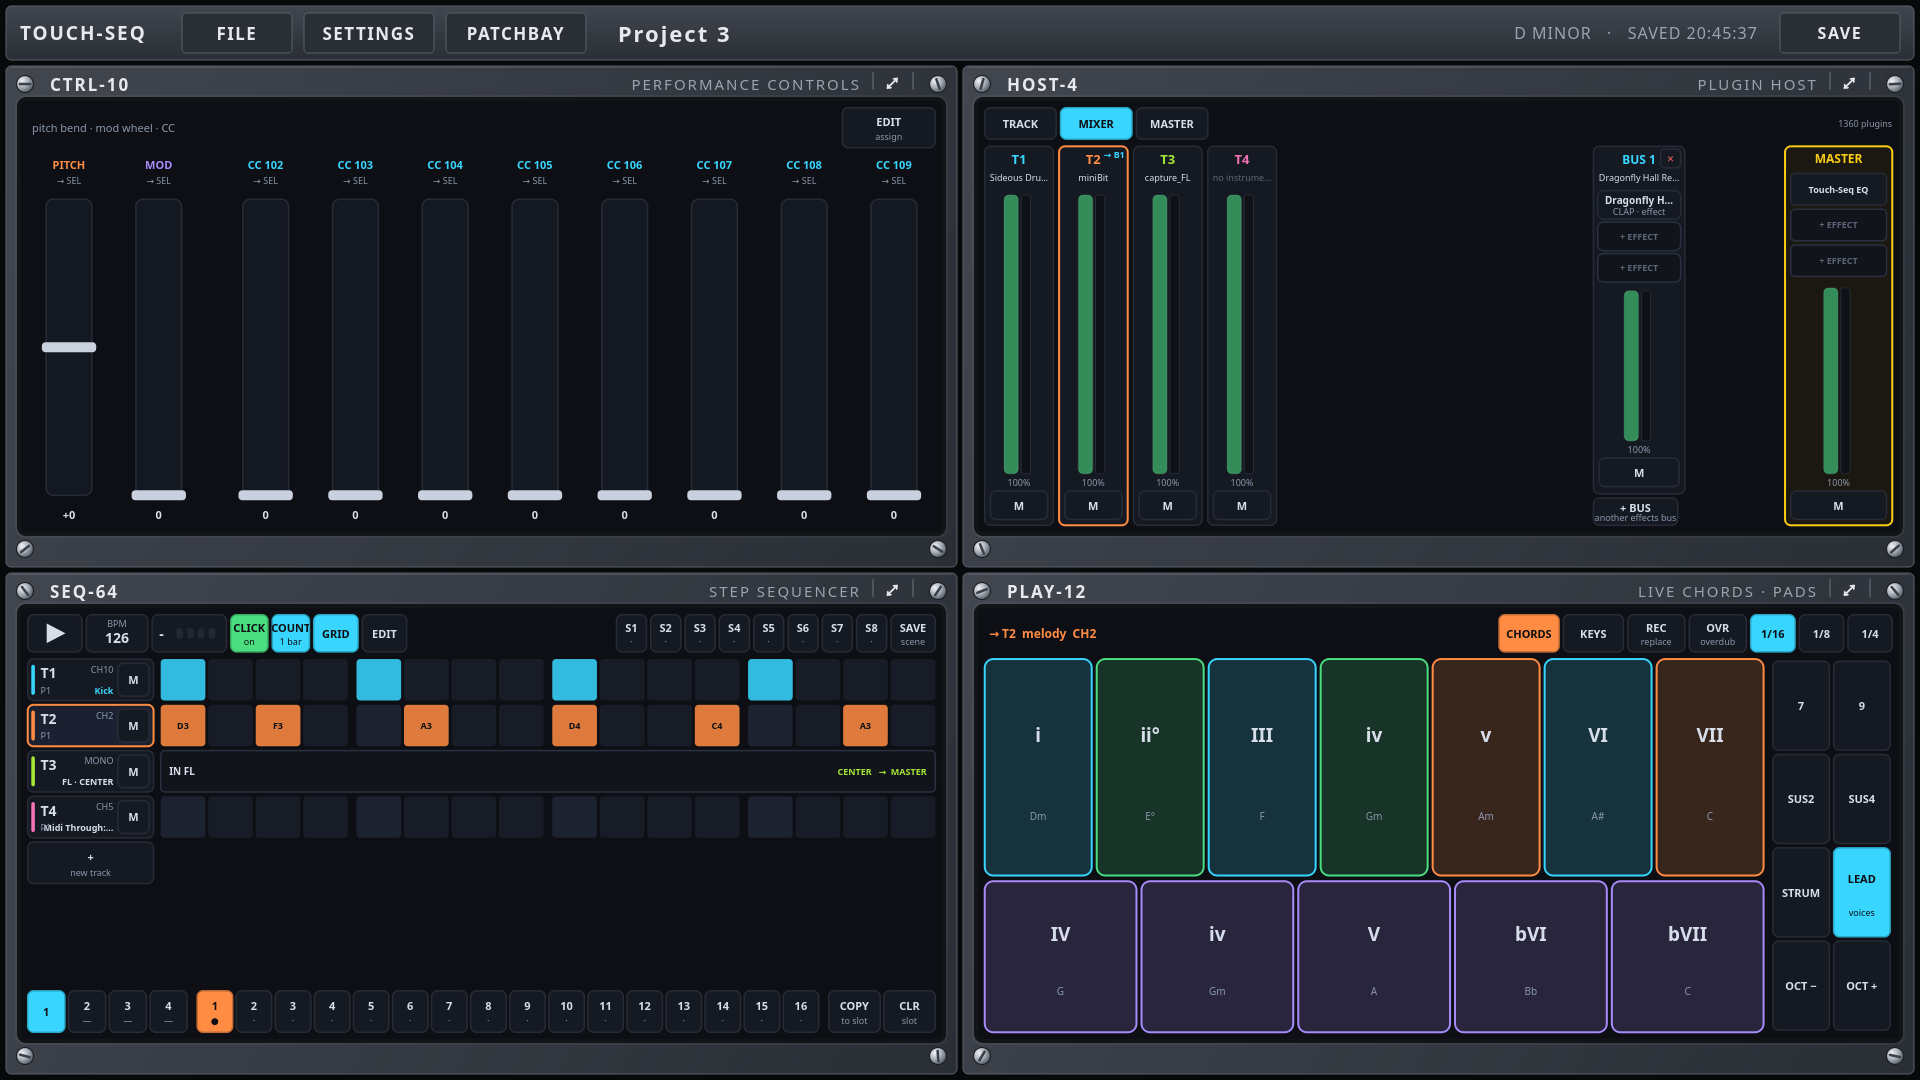
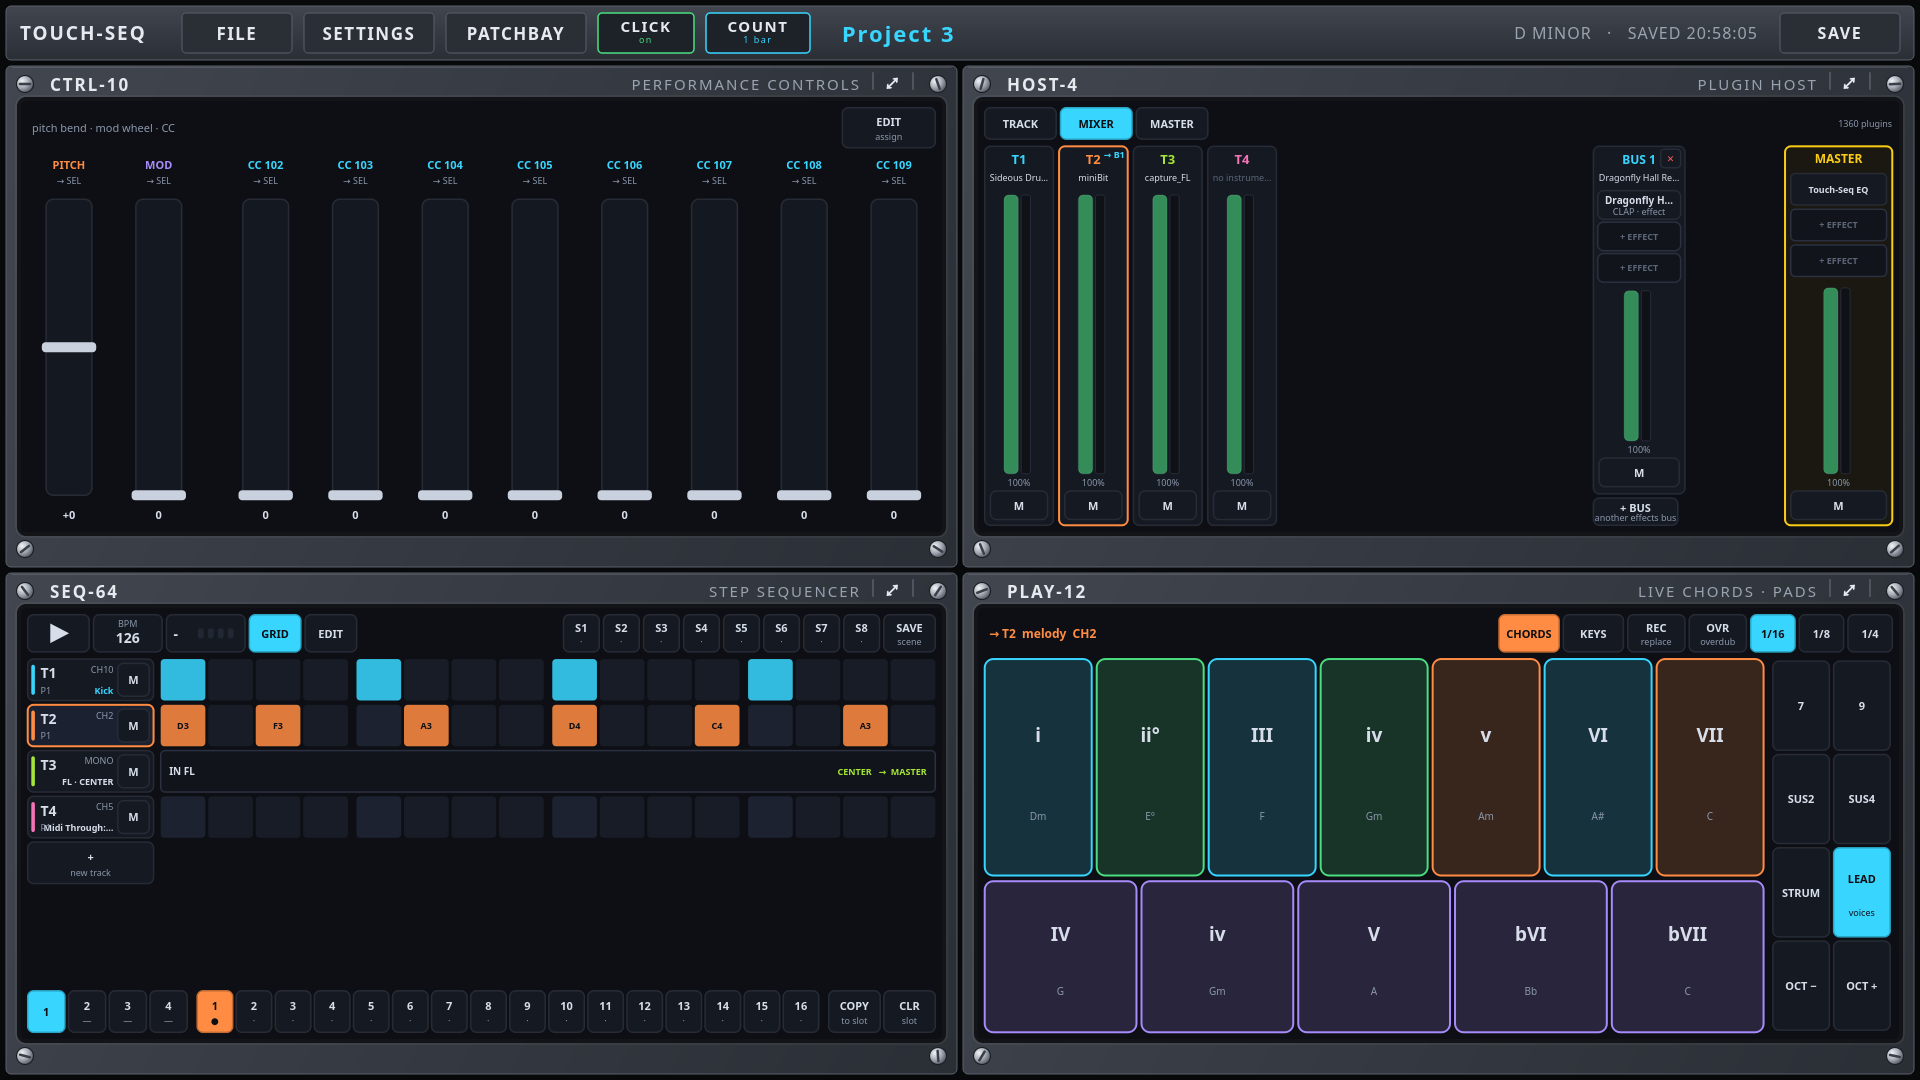
midi in: a held note keeps its length, the keyboard's clock sets the tempo, CLICK/COUNT move up
A note held over the end of the pattern came back as 1/16 (or a quarter) because the length was measured on
the track's own position, which wraps with the pattern: (end - start) % length. The engine now has a position
of its own that never wraps (`beats`), and record_end measures the hold on that, so a chord held for a bar is
a bar long (up to MAX_GATE) - fingers on the pads win from it too.

The keyboard's clock is followed as well: 24 pulses per beat, each stamped when it arrives (rtmidi's thread,
not the UI clock), the pulse length smoothed and the tempo decided once a beat, so pressing play on the
KeyStep plays the sequencer at its bpm instead of the project's.

The metronome and the count-in left the sequencer's transport row for the top bar, next to FILE / SETTINGS /
PATCHBAY, where they belong: they are the whole rack's, not one track's. The sequencer keeps its row as it was.

Test: a note held for ~20 steps at length 16 comes out as a whole bar (it used to come out as 4 steps);
an external clock at 128 bpm sets the project's tempo, a gap in the clock is not taken as a tempo, a new
tempo is followed, and the same through a MIDI input's 0xF8 messages.

Changed region(s): [[0.3125, 0.0, 0.4375, 0.0611], [0.0938, 0.55, 0.2188, 0.6111], [0.4375, 0.0306, 0.4688, 0.0611]]

diff --git a/tseq/performer.py b/tseq/performer.py
@@ -1,11 +1,13 @@
 """The live-play module: chord pads, the keyboard and the XY pad, with the chord/XY gestures that belong to
 them."""
 import math
+import time
 
 from PySide6.QtCore import QPointF, QRectF, Qt, QTimer
 from PySide6.QtGui import QColor, QLinearGradient, QPen
 
-from .constants import BG, BORDER, DIM, DRUM_COLORS, DRUM_KIT, GATE_RES, MAX_GATE, PANEL, TEXT, WARN
+from .constants import (BG, BORDER, BPM_MAX, BPM_MIN, DIM, DRUM_COLORS, DRUM_KIT, GATE_RES, MAX_GATE, PANEL,
+                        TEXT, WARN)
 from .gestures import Gesture
 from .midiin import Inputs
 from .music import (BORROWED, CHORD_SCALE, SCALES, XYFX_MODES, chord_name, note_name, roman, stack, xyfx_filter,
@@ -173,6 +175,9 @@ class Performer(Panel):
         self.midi_in = {}  # Track -> {note: count} the MIDI keyboards are holding (for lighting)
         self.midi_keys = {}  # (port, channel, note) -> [InNote]: what is sounding, to release on note-off
         self.arm_key = None  # (selected track, mode) the current recording was armed with
+        self.pulse_at = None  # when the last external clock pulse came in
+        self.pulse_len = None  # its smoothed length (s)
+        self.pulses = 0  # pulses since the last tempo decision
 
     # --- sound + recording -----------------------------------------------------
     def on(self, tr, note, vel):
@@ -193,8 +198,8 @@ class Performer(Panel):
     def tick(self):
         super().tick()
         self.inputs.use(tr.in_port for tr in self.project.tracks if not tr.audio)
-        for port, msg in self.inputs.poll():
-            self.external(port, msg)
+        for port, msg, when in self.inputs.poll():
+            self.external(port, msg, when)
         self.arm()
 
     def arm(self):
@@ -248,11 +253,34 @@ class Performer(Panel):
         elif self.engine.playing or self.engine.counting:
             self.engine.stop()
 
-    def external(self, port, msg):
+    CLOCK = 24  # MIDI clock pulses per beat
+
+    def clock(self, when):
+        """Follow an external clock, so a keyboard's own tempo plays the sequencer. The pulse length is
+        smoothed and the tempo only moves once a beat, so a few late pulses don't make it wobble."""
+        last, self.pulse_at = self.pulse_at, when
+        if last is None:
+            return
+        gap = when - last
+        if not 0.002 < gap < 0.25:  # the clock stopped (or was replugged): start measuring again
+            self.pulse_len = None
+            return
+        self.pulse_len = gap if self.pulse_len is None else self.pulse_len * 0.85 + gap * 0.15
+        self.pulses += 1
+        if self.pulses % self.CLOCK:  # decide once a beat, not on every pulse
+            return
+        bpm = round(60.0 / (self.pulse_len * self.CLOCK))
+        if bpm != self.project.bpm and BPM_MIN <= bpm <= BPM_MAX:
+            self.project.bpm = bpm
+
+    def external(self, port, msg, when=None):
         """A message from a MIDI input: every track listening to it plays the note (a keyboard's chords can
         go to more than one track) and records it when armed. Bend, mod wheel and the rest go to the
         instrument, so a keyboard's controller works the track like its own UI would."""
         status = msg[0]
+        if status == 0xF8:  # the clock: its tempo is the project's
+            self.clock(when if when is not None else time.perf_counter())
+            return
         if status in (0xFA, 0xFB, 0xFC) or (status == 0xB0 and len(msg) > 2 and msg[1] in (115, 116)):
             self.transport(msg)  # the keyboard's own play/stop
             return
@@ -290,12 +318,12 @@ class Performer(Panel):
             e.rec_taken.add((k, i))
             if ahead:
                 e.rec_fresh.add((k, i))
-        return pat, i, pos, lanes
+        return pat, i, e.beats(), lanes
 
     def record_end(self, tr, take):
         pat, i, start, lanes = take
-        pos = self.engine.position(tr)
-        held = (pos - start) % pat.length if pos is not None else 1.0
+        pos = self.engine.beats()  # not the track's own position: that wraps with the pattern
+        held = pos - start if pos is not None and start is not None else 1.0
         gate = max(GATE_RES, min(MAX_GATE, round(held / GATE_RES) * GATE_RES))
         for k in lanes:
             lane = pat.lane(k)

diff --git a/tests/test_app.py b/tests/test_app.py
@@ -1303,7 +1303,7 @@ class FakeInputs:
 
     def poll(self):
         got, self.msgs = self.msgs, []
-        return got
+        return [(port, msg, time.perf_counter()) for port, msg in got]
 
     def open_names(self):
         return self.open
@@ -1385,7 +1385,9 @@ ins = ts.Inputs(in_opener, lambda: ["Arturia KeyStep MIDI 1", "Novation Launchpa
 ins.use(["keystep"])
 assert list(made) == ["Arturia KeyStep MIDI 1"], made
 made["Arturia KeyStep MIDI 1"].cb(([0x90, 60, 100], 0.0))
-assert ins.poll() == [("Arturia KeyStep MIDI 1", [0x90, 60, 100])] and ins.poll() == []
+got = ins.poll()
+assert [(name, msg) for name, msg, when in got] == [("Arturia KeyStep MIDI 1", [0x90, 60, 100])], got
+assert ins.poll() == []
 assert ins.open_names() == ["Arturia KeyStep MIDI 1"]
 ins.use([])
 assert made["Arturia KeyStep MIDI 1"].closed and ins.open_names() == []
@@ -1529,3 +1531,47 @@ text = _f.read_text()
 assert "click" not in text and "count_in" not in text, "off is not stored"
 assert ts.load_project(_f).click is False and ts.load_project(_f).count_in == 0
 print("click settings OK")
+
+# --- a note held past the end of the pattern keeps its length (it used to wrap: 1/16 or a quarter) ---
+prh = ts.Project(bpm=600, tracks=[ts.Track("melody", 1, 1)])  # 600 bpm: a step is 25 ms, a bar 0.4 s
+orh = FakeOut(); ehh = ts.Engine(prh, orh); shh = ts.Sequencer(prh, ehh)
+phh = ts.Performer(prh, ehh, shh)
+shh.sel = prh.tracks[0]
+phh.mode = "rec"; ehh.start(); phh.tick()
+time.sleep(0.6)
+take = phh.record_start(prh.tracks[0], [60], 100)
+assert take, "armed and playing: the take starts"
+time.sleep(0.5)  # ~20 steps: over the bar line, where the old code wrapped to 4 steps
+phh.record_end(prh.tracks[0], take)
+step = prh.tracks[0].current.lanes[60][take[1]]
+print("held over the bar line:", round(step.gate, 3), "steps")
+assert step.gate == ts.MAX_GATE, step.gate  # a whole bar, not the remainder of the wrap
+ehh.stop(); phh.mode = None; phh.tick()
+print("long hold OK")
+
+# --- an external clock sets the tempo (the keyboard is the master) ---
+prb = ts.Project(bpm=100, tracks=[ts.Track("melody", 1, 1)])
+ebb = ts.Engine(prb, FakeOut()); shb = ts.Sequencer(prb, ebb); phb = ts.Performer(prb, ebb, shb)
+phb.inputs = FakeInputs()
+t = 1000.0
+for _ in range(48 * 2):  # two beats of clock at 128 bpm
+    phb.clock(t)
+    t += 60.0 / 128 / 24
+assert prb.bpm == 128, prb.bpm
+print("clock tempo:", prb.bpm)
+phb.clock(t + 1.0)  # the clock stopped for a second: measure again, don't jump
+assert prb.bpm == 128, prb.bpm
+t += 1.0
+for _ in range(24 * 3):  # and a new tempo is followed
+    phb.clock(t)
+    t += 60.0 / 90 / 24
+assert prb.bpm == 90, prb.bpm
+# the same through a MIDI input, which is how it actually arrives
+prb.bpm = 100
+phb.pulse_at, phb.pulse_len, phb.pulses = None, None, 0
+tt = 2000.0
+for _ in range(48 * 2):
+    phb.external("Arturia KeyStep MIDI 1", [0xF8], tt)
+    tt += 60.0 / 140 / 24
+assert prb.bpm == 140, prb.bpm
+print("clock from MIDI OK")

diff --git a/tseq/rack.py b/tseq/rack.py
@@ -102,8 +102,8 @@ class Rack(Window):
     def draw_toolbar(self, p, r):
         k = self.k
         inner = r.adjusted(14 * k, 7 * k, -14 * k, -7 * k)
-        logo, file_, settings, patch, name, info, save = split(
-            inner, [150 * k, 110 * k, 130 * k, 140 * k, 0, 300 * k, 120 * k], 12 * k)
+        logo, file_, settings, patch, click, count, name, info, save = split(
+            inner, [150 * k, 110 * k, 130 * k, 140 * k, 96 * k, 104 * k, 0, 300 * k, 120 * k], 12 * k)
         f = QFont("sans-serif")
         f.setPixelSize(round(19 * k))
         f.setBold(True)
@@ -116,6 +116,12 @@ class Rack(Window):
                          on=bool(self.dialog) and self.dialog[0] == "SETTINGS")
         self.rail_button(p, patch, "PATCHBAY", self.open_patchbay, size=17,
                          on=bool(self.dialog) and self.dialog[0] == "PATCHBAY")
+        on = self.project.click
+        self.rail_button(p, click, "CLICK", lambda: self.engine.set_click(not self.project.click), size=15,
+                         on=on, sub="on" if on else "off", color="#4ade80")
+        bars = self.project.count_in
+        self.rail_button(p, count, "COUNT", self.cycle_count_in, size=15, on=bars > 0,
+                         sub="off" if not bars else f"{bars} bar" + ("s" if bars > 1 else ""))
         f.setPixelSize(round(22 * k))
         p.setFont(f)
         p.drawText(name.adjusted(20 * k, 0, 0, 0), Qt.AlignLeft | Qt.AlignVCenter, self.path.stem)
@@ -129,6 +135,10 @@ class Rack(Window):
         state = "UNSAVED" if dirty else f"SAVED {time.strftime('%H:%M:%S', self.saved_at)}"
         p.drawText(info.adjusted(0, 0, -10 * k, 0), Qt.AlignRight | Qt.AlignVCenter,
                    f"{self.project.key_name.upper()}   ·   {state}")
+
+    def cycle_count_in(self):
+        """The count-in: off, one bar of clicks, two (saved with the project)."""
+        self.project.count_in = (self.project.count_in + 1) % 3
 
     def open_file(self):
         if self.dialog and self.dialog[0] == "FILE":

diff --git a/tseq/midiin.py b/tseq/midiin.py
@@ -51,7 +51,7 @@ def open_input(name):
             del port
             return None
         port.open_port(matches[0])
-        port.ignore_types(sysex=True, timing=True, active_sense=True)  # clock and sysex are the engine's
+        port.ignore_types(sysex=True, timing=False, active_sense=True)  # the clock tells us the tempo
     except (rtmidi.RtMidiError, ValueError):
         del port
         return None
@@ -93,7 +93,9 @@ class Inputs:
                 if port is None:  # opened a moment ago by another app, say: look again later
                     continue
                 try:
-                    port.set_callback(lambda msg, data=None, name=name: self.queue.put((name, msg[0])))
+                    # stamped on rtmidi's thread: a clock's own tempo needs it to the millisecond
+                    port.set_callback(lambda msg, data=None, name=name:
+                                      self.queue.put((name, msg[0], time.perf_counter())))
                 except (rtmidi.RtMidiError, RuntimeError):  # went away between the scan and the callback
                     port.close_port()
                     continue
@@ -125,13 +127,13 @@ class Inputs:
             return [name for name, port in self.ports.items() if port]
 
     def poll(self):
-        """[(port name, message)] received since the last look, oldest first (an empty message list is
-        dropped: rtmidi sends one for a port that just went away)."""
+        """[(port name, message, when it arrived)] since the last look, oldest first (an empty message list
+        is dropped: rtmidi sends one for a port that just went away)."""
         out = []
         while True:
             try:
-                name, msg = self.queue.get_nowait()
+                name, msg, when = self.queue.get_nowait()
             except queue.Empty:
                 return out
             if msg:
-                out.append((name, msg))
+                out.append((name, msg, when))

diff --git a/tseq/sequencer.py b/tseq/sequencer.py
@@ -319,8 +319,8 @@ class Sequencer(Panel):
 
     def draw_top(self, p, r):
         s, e = self.s, self.engine
-        play, bpm, bar, click, count, grid, edit, _, *scenes, save = split(
-            r, [76 * s, 86 * s, 104 * s, 52 * s, 52 * s, 62 * s, 62 * s, 0] + [42 * s] * SCENES + [62 * s], 6 * s)
+        play, bpm, bar, grid, edit, _, *scenes, save = split(
+            r, [86 * s, 96 * s, 110 * s, 72 * s, 72 * s, 0] + [50 * s] * SCENES + [72 * s], 6 * s)
 
         active = e.playing or e.counting
         self.button(p, play, "", self.toggle_play, on=e.playing, color=PLAY, pending=e.counting)
@@ -345,15 +345,11 @@ class Sequencer(Panel):
             label = f"{si // STEPS_PER_BAR + 1}" if si >= 0 else "-"
             beat = (si % STEPS_PER_BAR) // 4 if si >= 0 else -1
         self.text(p, bar.adjusted(10 * s, 0, 0, 0), label, TEXT, 20, Qt.AlignLeft | Qt.AlignVCenter, bold=True)
-        cell = (bar.width() - 44 * s) / 4
+        cell = (bar.width() - 54 * s) / 4
         for b in range(4):
-            br = QRectF(bar.left() + 34 * s + b * cell, bar.center().y() - 7 * s, cell - 6 * s, 14 * s)
+            br = QRectF(bar.left() + 44 * s + b * cell, bar.center().y() - 7 * s, cell - 6 * s, 14 * s)
             self.box(p, br, PLAY if b == beat else "#222734", None, radius=3)
 
-        self.button(p, click, "CLICK", lambda: e.set_click(not pr.click), on=pr.click, color="#4ade80",
-                    sub="on" if pr.click else "off")
-        self.button(p, count, "COUNT", lambda: setattr(pr, "count_in", (pr.count_in + 1) % 3), on=pr.count_in > 0,
-                    sub="off" if not pr.count_in else f"{pr.count_in} bar" + ("s" if pr.count_in > 1 else ""))
         self.button(p, grid, "GRID", lambda: setattr(self, "view", "grid"), on=self.view == "grid")
         self.button(p, edit, "EDIT", lambda: setattr(self, "view", "edit"), on=self.view == "edit")
 

diff --git a/tseq/ui.py b/tseq/ui.py
@@ -354,11 +354,11 @@ class Window(QWidget):
     def draw_toolbar(self, p, r):
         pass
 
-    def rail_button(self, p, r, label, action, size=24, on=False, frame=True):
+    def rail_button(self, p, r, label, action, size=24, on=False, frame=True, sub=None, color="#38d6ff"):
         """Button on metal; without a frame only thin bars at the sides mark it (for the module rails)."""
         k = self.k
         if frame:
-            p.setPen(QPen(QColor("#38d6ff" if on else "#5a606b"), 1.5 if on else 1))
+            p.setPen(QPen(QColor(color if on else "#5a606b"), 1.5 if on else 1))
             p.setBrush(QColor("#1d2128" if on else "#2a2e35"))
             p.drawRoundedRect(r, 4 * k, 4 * k)
         else:
@@ -371,7 +371,15 @@ class Window(QWidget):
         f.setLetterSpacing(QFont.AbsoluteSpacing, 1.5 * k)
         p.setFont(f)
         p.setPen(QColor("#e6e9ee"))
-        p.drawText(r, Qt.AlignCenter, label)
+        if sub:
+            p.drawText(r.adjusted(0, 0, 0, -r.height() * 0.32), Qt.AlignCenter, label)
+            f.setPixelSize(round(max(9, size - 6) * k))
+            f.setBold(False)
+            p.setFont(f)
+            p.setPen(QColor(color if on else "#8a929e"))
+            p.drawText(r.adjusted(0, r.height() * 0.34, 0, 0), Qt.AlignCenter, sub)
+        else:
+            p.drawText(r, Qt.AlignCenter, label)
         self.rail_buttons.append((r.adjusted(-6 * k, -5 * k, 6 * k, 5 * k), action))
 
     def toggle_zoom(self, panel):

diff --git a/tseq/engine.py b/tseq/engine.py
@@ -300,6 +300,14 @@ class Engine:
             self.step_index = -1
             self.apply_pending()
 
+    def beats(self):
+        """The sequencer's own position in fractional steps since it started: unlike a track's position it
+        never wraps, so a note held over the end of the pattern still knows how long it was held."""
+        with self.lock:
+            if not self.playing or self.step_index < 0:
+                return None
+            return self.step_index + (time.perf_counter() - self.step_time) / self.step_len
+
     def position(self, tr):
         """Where in its pattern the track is right now, in (fractional) steps; None when stopped."""
         with self.lock:

diff --git a/README.md b/README.md
@@ -23,9 +23,8 @@ screen; everything else keeps running.
   the kind, and for external the MIDI output it sends to, for audio the interface input it takes)
 - 16 patterns per track, 1–64 steps (polymetric tracks are fine), 8 **scenes**
 - pattern and scene changes are **quantized to the bar**: the current pattern plays to the end of the bar
-- the transport row has the **metronome** (**CLICK**) and a **COUNT**-in of 0/1/2 bars: the count-in plays its
-  clicks first and the pattern starts on the downbeat after them — and a keyboard's own play/stop works too
-  (MIDI Start/Continue/Stop, or CC 115/116), count-in included
+- the top bar has the **metronome** (**CLICK**) and a **COUNT**-in of 0/1/2 bars: the count-in plays its
+  clicks first and the pattern starts on the downbeat after them
 - **GRID** shows all tracks; **EDIT** opens the selected one:
   - melody: a **polyphonic piano roll** with a velocity/gate lane; notes can be stretched over several steps;
     rows outside the project's scale are dimmed
@@ -42,7 +41,11 @@ screen; everything else keeps running.
   once configured, **amber** when that device is away, dim when the track only plays its patterns. Incoming
   notes play the track's instrument (or its hardware output), light its pads/keys in PLAY-12 and are recorded
   when REC/OVR is armed — quantized like the on-screen pads, into the track the keyboard is routed to (which
-  need not be the selected one). Pitch bend and the mod wheel reach the instrument too
+  need not be the selected one). Pitch bend and the mod wheel reach the instrument too. A note keeps the
+  length you held it for, over the bar line included
+- the same keyboard is the **transport**: its play/stop buttons start and stop the sequencer (MIDI
+  Start/Continue/Stop, or CC 115/116), and its **clock** sets the tempo — 24 pulses per beat, smoothed, so
+  the project runs at the keyboard's bpm
 - in EDIT, **▼ trans / ▲ trans** moves the whole pattern one scale degree down or up: the step comes from the
   project's key and scale, so the pattern stays in key (a chromatic note keeps its alteration, octaves wrap);
   drum tracks have fixed voices and don't offer it
@@ -100,8 +103,8 @@ Plays the track selected in the sequencer:
 - external MIDI tracks: like melody tracks (chords, keyboard), straight out to their output port
 - **REC** (replace, like tape) or **OVR** (overdub) records what you play into the pattern, quantized to
   1/16, 1/8 or 1/4 — fingers on the pads and notes from a track's MIDI keyboard alike
-- **CLICK** and **COUNT** in the sequencer's transport row: a tick on every beat (higher on the bar's first)
-  while playing, and 0/1/2 bars of them before the pattern starts, so you can come in on time
+- **CLICK** and **COUNT** in the top bar: a tick on every beat (higher on the bar's first) while playing, and
+  0/1/2 bars of them before the pattern starts, so you can come in on time
 - with **XYFX** on the master, a **MASTER** row appears in the sequencer; selecting it turns this module
   into an **XY pad**: beat repeat left–right (straight on the right half, triplets or reverse on the left),
   low-pass down / high-pass up, the centre is "dry"
@@ -181,7 +184,7 @@ device is unplugged its notes are simply not sent, and they come back when it re
 | module rail | **⤢ / ⤡** | module full screen and back |
 | sequencer | tap **BPM** | tempo popup: drag the number, ±1/5/10, TAP tempo |
 | sequencer | tap a track header twice | opens it in EDIT |
-| sequencer | **CLICK** / **COUNT** | the metronome, and 0/1/2 bars of count-in before the pattern |
+| top bar | **CLICK** / **COUNT** | the metronome, and 0/1/2 bars of count-in before the pattern |
 | sequencer | drag a **pattern slot** onto another | copies the pattern there and switches to it (at the bar) |
 | sequencer | drag along a row | paints steps on/off |
 | piano roll | tap empty / tap a note | place / remove; drag a note sideways = length, up/down = pitch |
